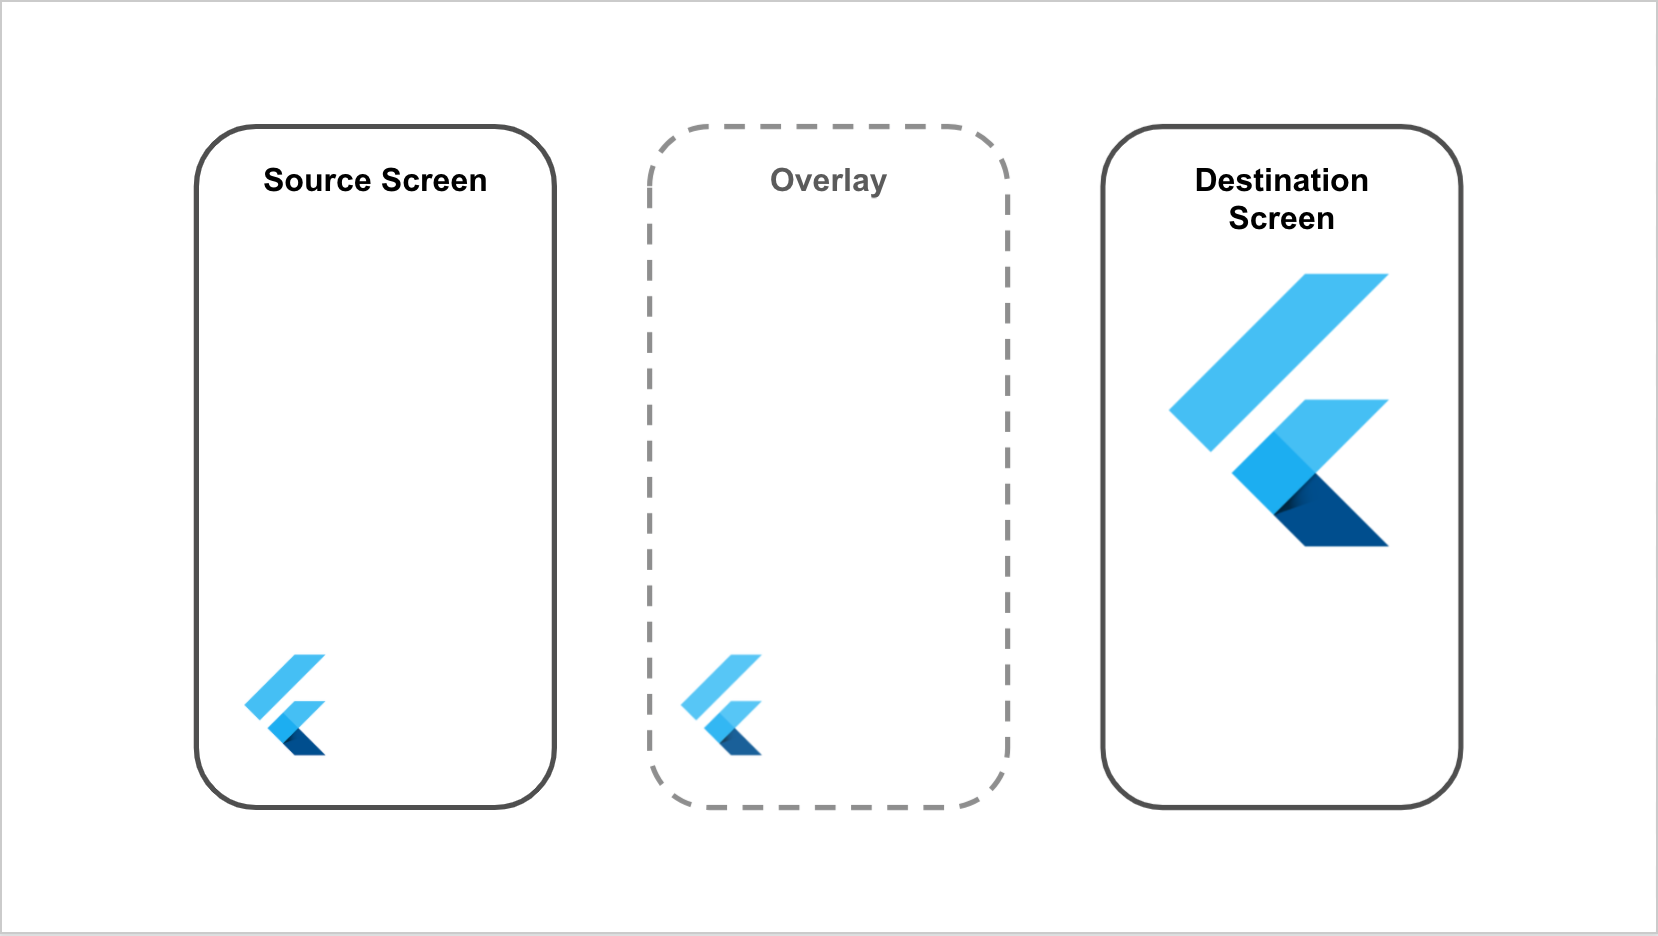
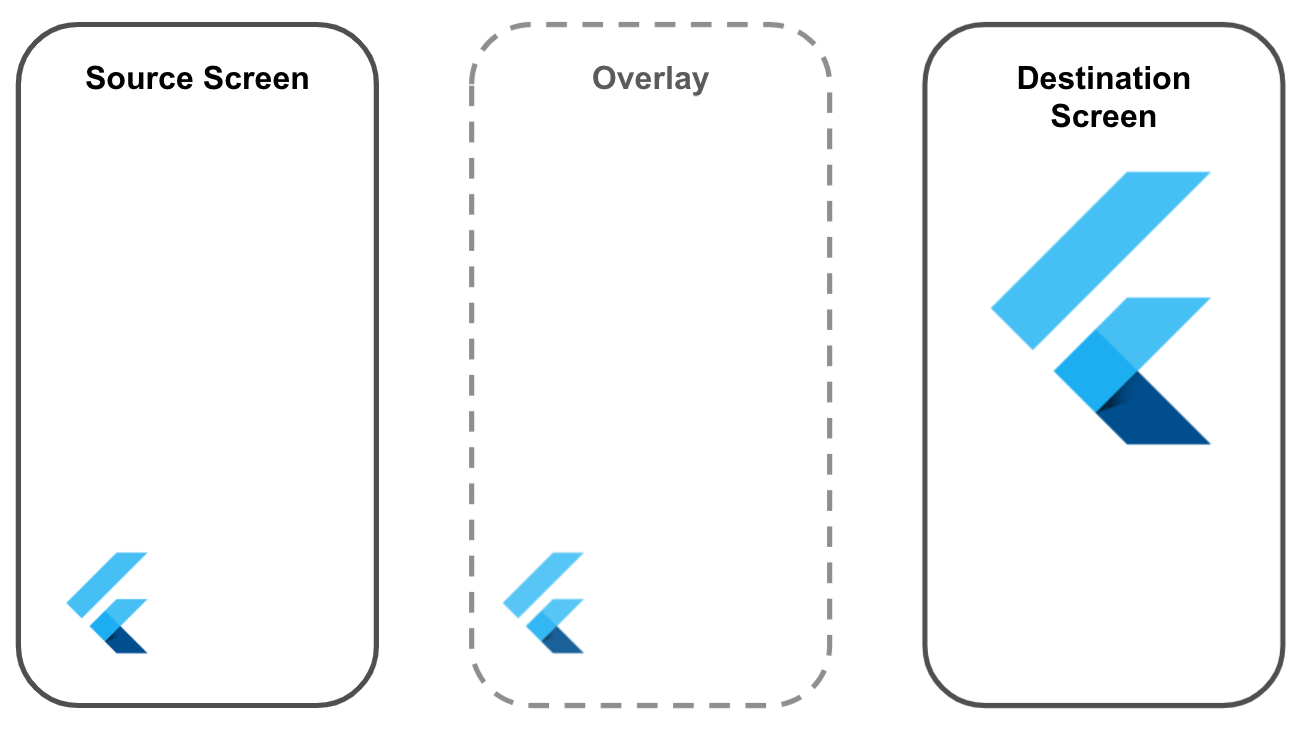
:bento: (Images) Recroping images & using HTML to adjust display size

diff --git a/Flutter_Hero_Animation_Unmasked/Flutter_Hero_Animation_Unmasked_Part_1.md b/Flutter_Hero_Animation_Unmasked/Flutter_Hero_Animation_Unmasked_Part_1.md
@@ -2,7 +2,9 @@
 
 You all know Flutter's famous [Hero animation](https://flutter.dev/docs/development/ui/animations/hero-animations) where a "Hero" widget "flies" from one page to the next during a navigation transition:
 
-![Real Hero Animation Demo](./images/Real_Hero_Animation.gif)
+<div style="text-align: center;">
+  <img src="./images/Real_Hero_Animation.gif" height="300" style="border-radius: 20px;" alt="Hero Animation" />
+</div>
 
 This animation is pretty cool and is surely a great way to triggers that "Wow" effect with only a few lines of code.
 🤔 It's so simple that it strangely looks like some kind of wizardry, doesn't it?
@@ -19,11 +21,19 @@ _Because this is a fairly long journey, I will split into 2 parts:_
 Before diving into the wicked part, let's have look at the general mechanism of this feature:
 
 1. Given 2 pages (source & destination), which both contains `Hero` widgets with the a `tag` property holding the same value.
-   ![Initial State](./images/initial_state.png)
+<div style="text-align: center;">
+  <img src="./images/initial_state.png" height="200" alt="Hero Animation - Initial State" />
+</div>
+
 2. Copy the widget's content into an [Overlay](https://api.flutter.dev/flutter/widgets/Overlay-class.html)
-   ![Initial State](./images/initial_state_with_overlay.png)
+<div style="text-align: center;">
+  <img src="./images/initial_state_with_overlay.png" height="200" alt="Hero Animation - Initial State with overlay" />
+</div>
+
 3. Animate the overlayed widget from the source to the destination position on screen
-   ![Initial State](./images/overlay_animated.png)
+<div style="text-align: center;">
+  <img src="./images/overlay_animated.png" height="200" alt="Hero Animation - Overlay Animated" />
+</div>
 
 This 1 part [(Flutter Hero Animation Unmasked - Part 1)](./Flutter_Hero_Animation_Unmasked_Part_1.md) will focus on steps 1 and 2. Step 3. is described in the second part of this article: ["Flutter Hero Animation Unmasked - Part 2"](./Flutter_Hero_Animation_Unmasked_Part_2.md).
 
@@ -95,7 +105,10 @@ child: UnmaskedHero(
 ```
 
 And we now have a regular transition without any widget flying from one page to the other ...
-![Transition without Hero animation](./images/Without_Hero_Transition.gif)
+
+<div style="text-align: center;">
+  <img src="./images/Without_Hero_Transition.gif" height="300" style="border-radius: 20px;" alt="Transition without Hero animation" />
+</div>
 
 **BooooOOOORING! 👎**
 
@@ -324,7 +337,9 @@ Here, we create an [`OverlayEntry`](https://api.flutter.dev/flutter/widgets/Over
 
 With this, the Hero's child is displayed majestically over the rest of the app.
 
-![Unmasked Hero displayed on Overlay](./images/Unmasked_Hero_on_Overlay.gif)
+<div style="text-align: center;">
+  <img src="./images/Unmasked_Hero_on_Overlay.gif" height="300" style="border-radius: 20px;" alt="Unmasked Hero displayed on Overlay" />
+</div>
 
 However, it does not fly yet ...
 
